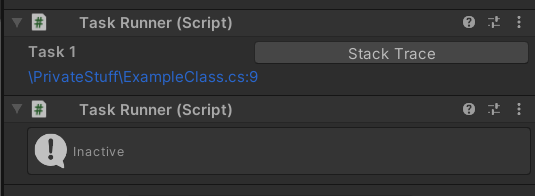
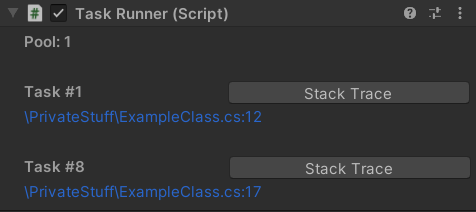
TaskDrawer improvements

diff --git a/Code/Editor/Inspectors/AsyncSystem/TaskDrawer.cs b/Code/Editor/Inspectors/AsyncSystem/TaskDrawer.cs
@@ -7,37 +7,33 @@ using UnityObject = UnityEngine.Object;
 
 namespace OlegHcpEditor.Inspectors.AsyncSystem
 {
-    internal class TaskDrawer
+    internal readonly struct TaskDrawer
     {
-        private RoutineIterator _iterator;
-        private string _startPoint;
+        private readonly RoutineIterator _iterator;
+        private readonly string _startPoint;
 
-        private static GUIStyle _hyperLinkStyle;
-        private static string _stackTraceButtonLabel;
-        private static GUILayoutOption[] _buttonOptions;
+        public bool IsDead => _iterator == null || _iterator.Id == 0L;
 
-        public TaskDrawer(RoutineIterator iterator, string stackTraceButtonLabel, GUIStyle hyperLinkStyle, GUILayoutOption[] buttonOptions)
+        public TaskDrawer(RoutineIterator iterator)
         {
             _iterator = iterator;
             _startPoint = GetStartLine(iterator.StackTrace, Application.dataPath.Length);
-
-            _stackTraceButtonLabel = stackTraceButtonLabel;
-            _hyperLinkStyle = hyperLinkStyle;
-            _buttonOptions = buttonOptions;
         }
 
-        public void Draw()
+        public void Draw(GUIStyle hyperLinkStyle, string stackTraceButtonLabel, GUILayoutOption[] buttonOptions)
         {
+
+
             EditorGUILayout.BeginHorizontal();
 
             GUILayout.Label($"Task #{_iterator.Id}", EditorStyles.boldLabel);
 
-            if (GUILayout.Button(_stackTraceButtonLabel, _buttonOptions))
+            if (GUILayout.Button(stackTraceButtonLabel, buttonOptions))
                 StackTraceWindow.Create(_iterator.StackTrace);
 
             EditorGUILayout.EndHorizontal();
 
-            if (GUILayout.Button(_startPoint, _hyperLinkStyle))
+            if (GUILayout.Button(_startPoint, hyperLinkStyle))
                 OpenCode(_iterator.StackTrace);
         }
 

diff --git a/Code/Editor/Inspectors/AsyncSystem/TaskRunnerEditor.cs b/Code/Editor/Inspectors/AsyncSystem/TaskRunnerEditor.cs
@@ -36,22 +36,22 @@ namespace OlegHcpEditor.Inspectors.AsyncSystem
 
         public override void OnInspectorGUI()
         {
-            EditorGUILayout.LabelField($"Pool: {target.PoolCount}");
+            GUILayout.Label($"Pool: {target.PoolCount}", EditorStyles.boldLabel);
 
             for (int i = 0; i < _activeTasks.Count; i++)
             {
                 if (_activeTasks[i] == null)
                 {
-                    _taskDrawers[i] = null;
+                    _taskDrawers[i] = default;
                     continue;
                 }
 
-                EditorGUILayout.Space();
+                EditorGUILayout.Space(20f);
 
-                if (_taskDrawers[i] == null)
-                    _taskDrawers[i] = new TaskDrawer(_activeTasks[i], _stackTraceButtonLabel, _hyperLinkStyle, _buttonOptions);
+                if (_taskDrawers[i].IsDead)
+                    _taskDrawers[i] = new TaskDrawer(_activeTasks[i]);
 
-                _taskDrawers[i].Draw();
+                _taskDrawers[i].Draw(_hyperLinkStyle, _stackTraceButtonLabel, _buttonOptions);
             }
         }
 
